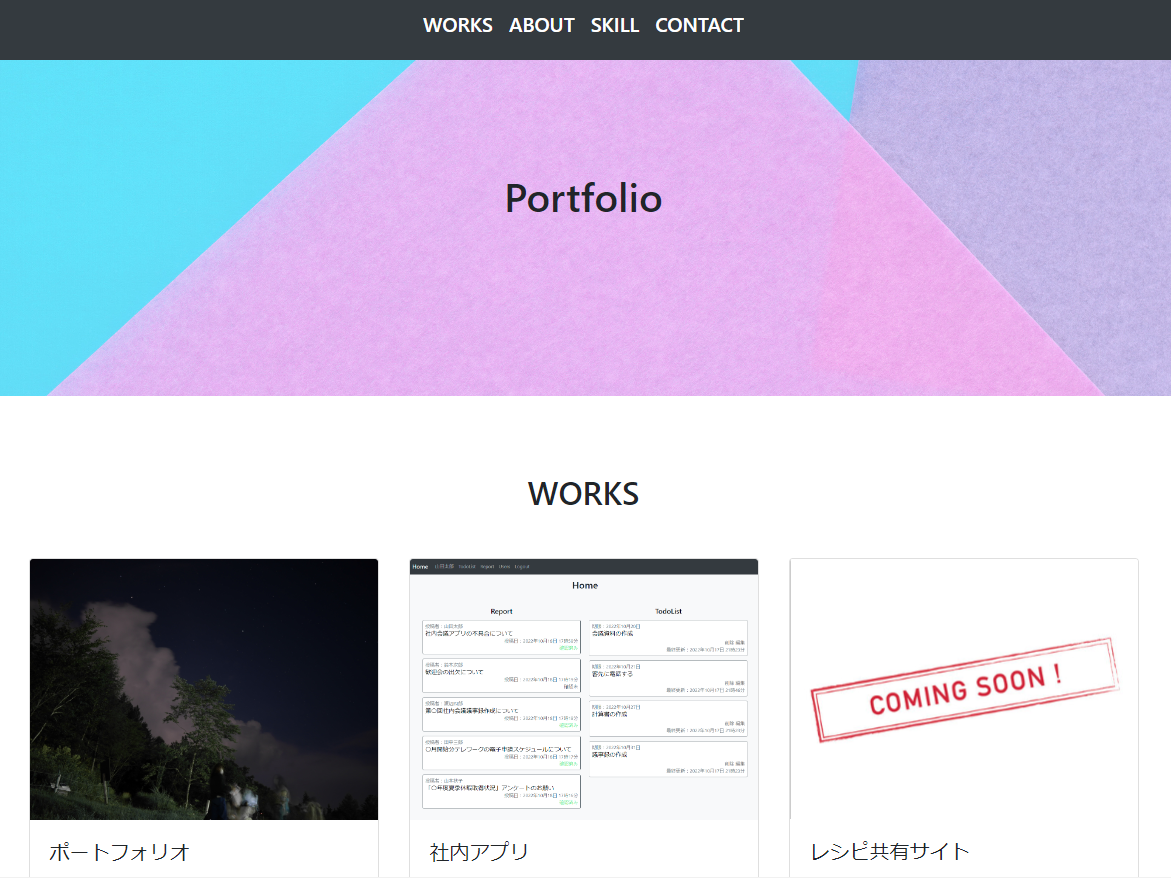
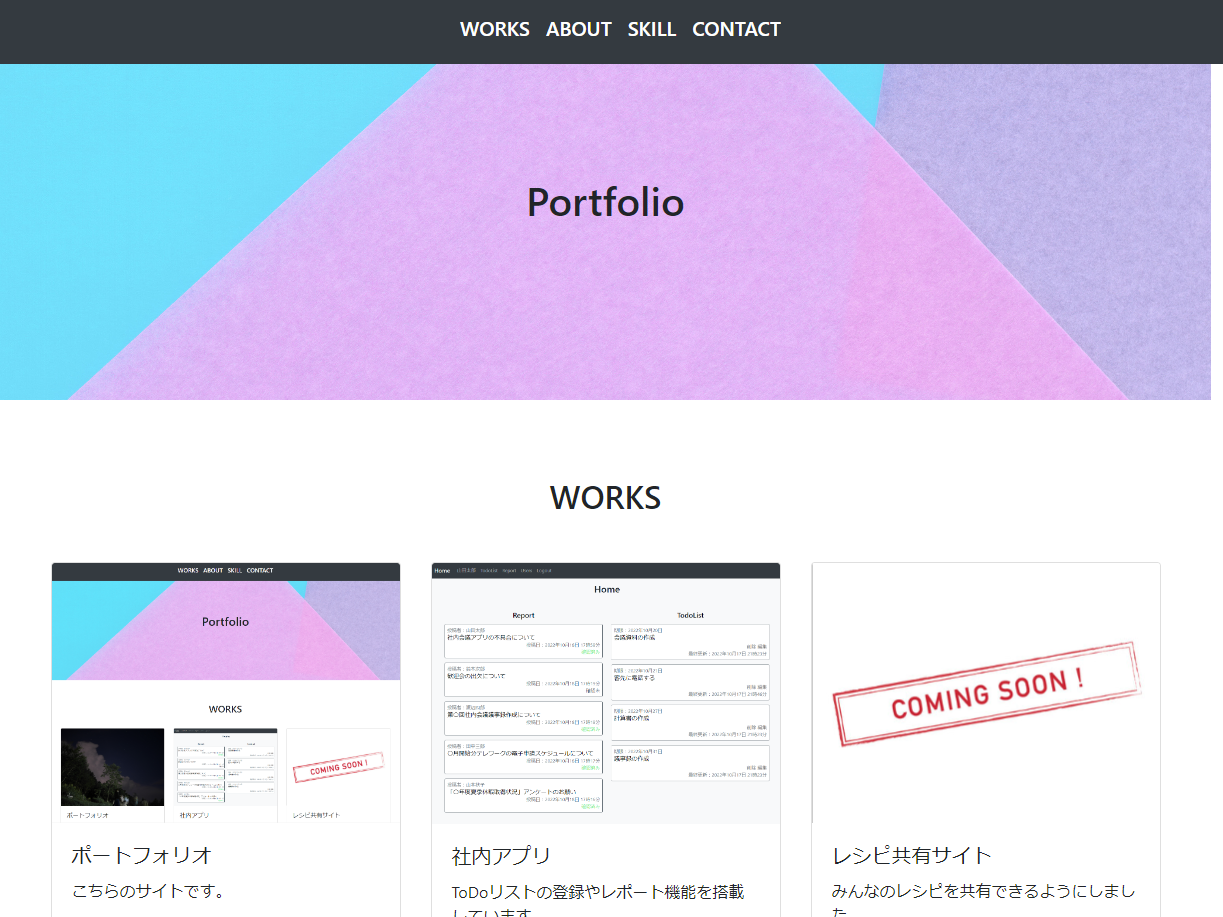
自己紹介追加

diff --git a/index.html b/index.html
@@ -59,7 +59,7 @@
                     <h5 class="card-title">社内アプリ</h5>
                     <p class="card-text">ToDoリストの登録やレポート機能を搭載しています。<br>説明ページにて詳細を記載してあります。</p>
                     <p class="card-text"><small class="text-muted">Ruby on Rails / MySQL / Bootstrap</small></p>
-                    <a class="btn btn-outline-info" href="https://github.com/YuinaHattori/Profile" role="button">GitHubを開く</a>
+                    <a class="btn btn-outline-info" href="https://github.com/YuinaHattori/Repotto" role="button">GitHubを開く</a>
                     <a class="btn btn-outline-info" href="appdetail.html" role="button">アプリの説明を開く</a>
                 </div>
             </div>
@@ -82,14 +82,16 @@
     <h2 id="about" class="text-center"><br><br>ABOUT<br><br></h2>
     <div class="container countainer-mdiv.container-m">
         <div class="row">
-          <div class="col-md-4  img-hidden">
+          <div class="col-md-3  img-hidden">
             <img src="img/profile.jpg" alt="img" class="img-fulied">
           </div>
           <div class="col-md-8">
-            <p class="h3">自己紹介</p>
-            <p>はじめまして！<br>
-                独学でRuby, Ruby on Railsを学びました。<br>
-                現在JavaでのWebアプリケーション・Androidアプリケーションを学んでいます。
+            <p><br>こんにちは！はっとりと申します。<br>
+                愛知県出身27歳です。現在転職活動中です。<br>
+                前職で働く中で、新規導入されたシステムによって業務が効率化されたことをきっかけに、<br>
+                システム開発に興味を持ちました。<br>
+                独学でRuby on Railsを学び、現在JavaでのWebアプリケーション開発を行っています。<br>
+                (2022.10.23更新)
             </p>
           </div>
         </div>

diff --git a/appdetail.html b/appdetail.html
@@ -11,28 +11,7 @@
   </head>
 
   <body>
-    <!--ヘッダー--> 
-    <nav class="navbar navbar-expand fixed-top navbar-dark bg-dark">
-        <div class="collapse navbar-collapse justify-content-center">
-            <ul class="navbar-nav">
-                <li class="nav-item active">
-                    <a class="nav-link" href="#login"><p class="h5">Login</p></a>
-                </li>
-                <li class="nav-item active">
-                    <a class="nav-link" href="#index"><p class="h5">TopPage</p></a>
-                </li>
-                <li class="nav-item active">
-                    <a class="nav-link" href="#user"><p class="h5">User</p></a>
-                </li>
-                <li class="nav-item active">
-                    <a class="nav-link" href="#list"><p class="h5">ToDoList</p></a>
-                </li>
-                <li class="nav-item active">
-                    <a class="nav-link" href="#report"><p class="h5">Report</p></a>
-                </li>
-            </ul>
-        </div>
-    </nav>
+
 
     <div class="container-title" id="top">
         <h1 class="title" >アプリの使い方</h1>
@@ -156,15 +135,15 @@
     </div>
 
     <h2 id="video" class="text-center"><br><br>Video<br><br></h2>
-    <div class="text-center">
+    <div class="text-center pb-5 mb-5">
       <video controls muted poster="img\video.png" src="img\sample.mp4"></video>
     </div>
 
-    <nav class="navbar navbar-expand-md navbar-dark bg-dark mt-5">
+    <nav class="navbar navbar-expand-md navbar-dark bg-dark  fixed-bottom">
       <div class="collapse navbar-collapse justify-content-center">
           <ul class="navbar-nav">
               <li class="nav-item active">
-                  <a class="nav-link" href="index.html"><p class="h5">Portfolioまとめに戻る</p></a>
+                  <a class="nav-link" href="index.html"><p class="h5">Portfolioに戻る</p></a>
               </li>
           </ul>
       </div>
